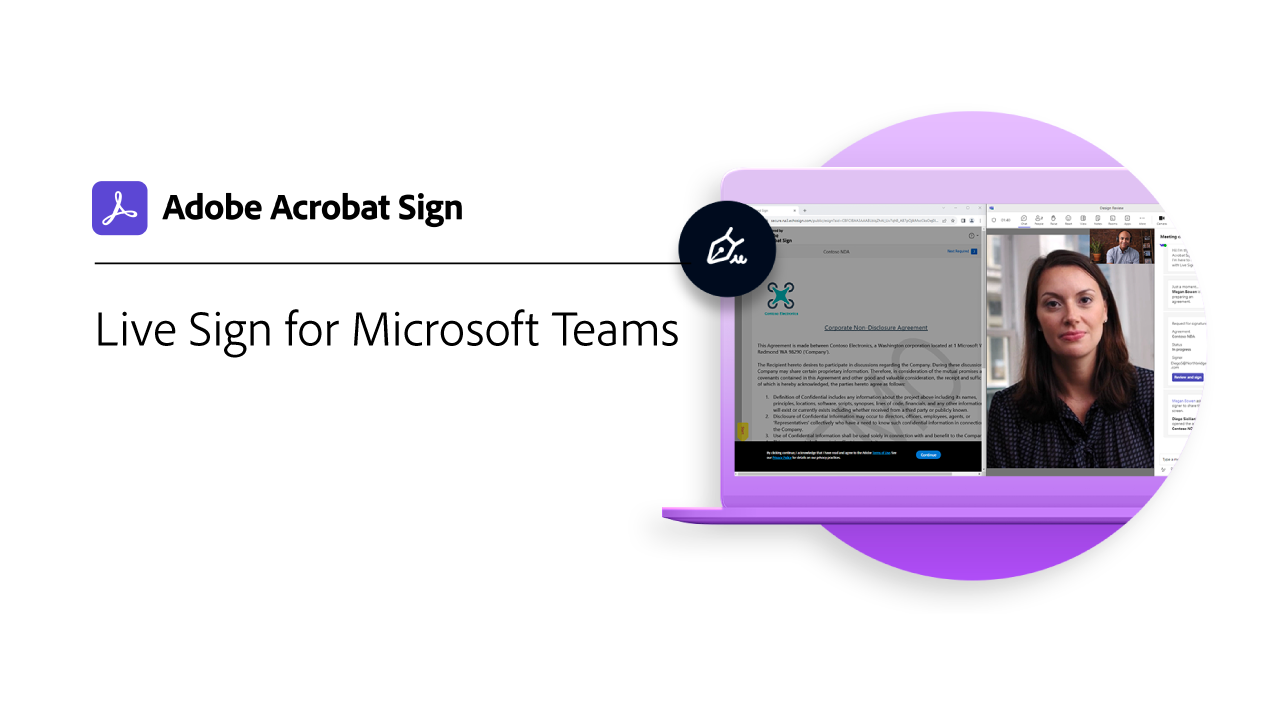
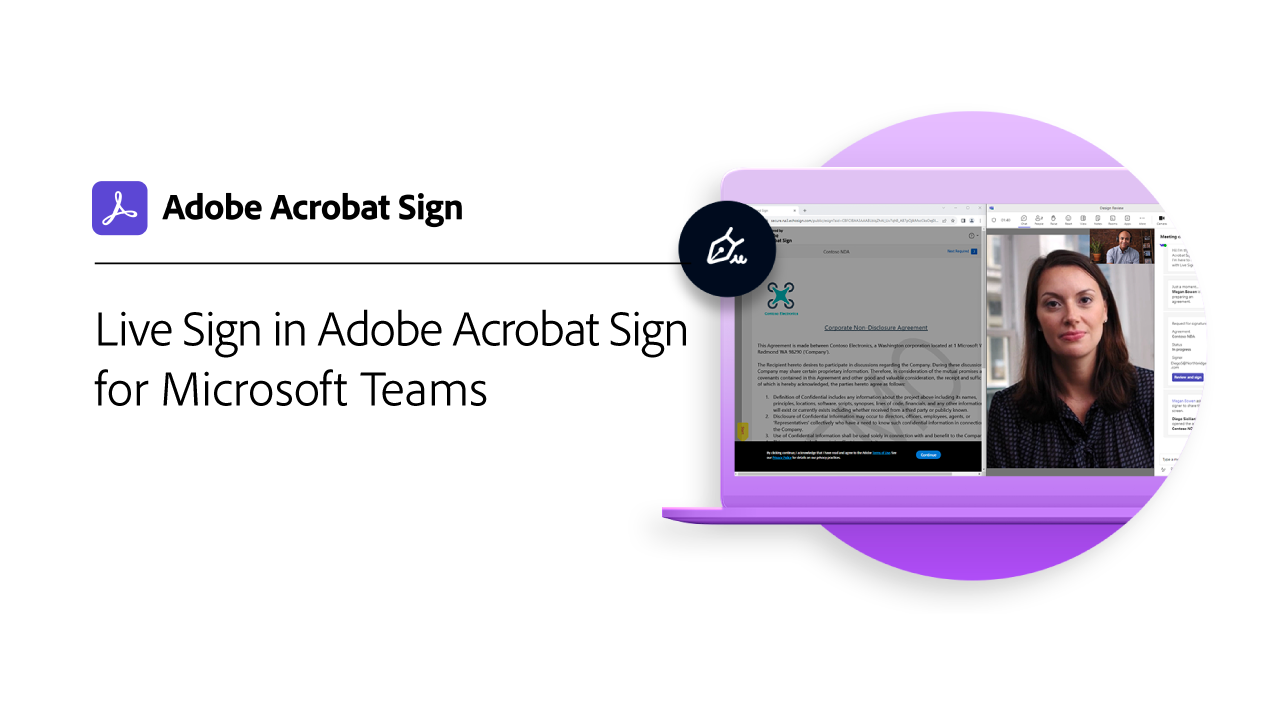
Title updates

Changed region(s): [[0.0625, 0.4278, 0.5312, 0.5806]]

diff --git a/help/sign/integrations/integrations-overview.md b/help/sign/integrations/integrations-overview.md
@@ -20,7 +20,7 @@ You can use Acrobat Sign inside other applications your organization already use
 
 ## What's new
 
-* [Live Sign for [!DNL Microsoft Teams]](live-sign-microsoft-teams.md)
+* [Live Sign in Adobe Acrobat Sign for [!DNL Microsoft Teams]](live-sign-microsoft-teams.md)
   Learn how to create an online signing experience that resembles in-person signing during a [!DNL Microsoft Teams] meeting
 * [Create an advanced workflow with [!DNL Power Automate]](advanced-workflow-power-automate.md)
    Learn how to create an advance workflow using [!DNL Power Automate] connectors
@@ -117,10 +117,10 @@ You can use Acrobat Sign inside other applications your organization already use
 <tr>
   <td>
     <a href="live-sign-microsoft-teams.md">
-      <img alt="Live Sign in [!DNL Microsoft Teams]" src="../assets/live-sign.png" />
+      <img alt="Live Sign in Adobe Acrobat Sign for [!DNL Microsoft Teams]" src="../assets/live-sign.png" />
     </a>
     <div>
-    <a href="live-sign-microsoft-teams.md"><strong>Live Sign in [!DNL Microsoft Teams]</strong></a>
+    <a href="live-sign-microsoft-teams.md"><strong>Live Sign in Adobe Acrobat Sign for [!DNL Microsoft Teams]</strong></a>
     </div>
     <em>Learn how to create an online signing experience that resembles in-person signing during a [!DNL Microsoft Teams] meeting</em>
     <br>

diff --git a/help/sign/TOC.md b/help/sign/TOC.md
@@ -102,7 +102,7 @@ auto-video-transcripts: true
     + [Auto archive files in [!DNL SharePoint] with [!DNL Power Automate]](integrations/auto-archive-sharepoint-power-automate.md)
     + [Document automation with Acrobat Sign for [!DNL Microsoft Power Platform]](integrations/documentautomation.md)
     + [Send for signature in [!DNL Microsoft Teams]](integrations/adobe-sign-teams-mortgage.md)
-    + [Live Sign for [!DNL Microsoft Teams]](integrations/live-sign-microsoft-teams.md) 
+    + [Live Sign in Adobe Acrobat Sign for [!DNL Microsoft Teams]](integrations/live-sign-microsoft-teams.md) 
     + [Create a simple workflow in [!DNL Power Automate]](integrations/simple-workflow-power-automate.md)
     + [Create an advanced workflow in [!DNL Power Automate]](integrations/advanced-workflow-power-automate.md)
     + [[!DNL Microsoft Dynamics 365] for Customer Service](integrations/dynamics-customer-service.md)

diff --git a/help/sign/integrations/live-sign-microsoft-teams.md b/help/sign/integrations/live-sign-microsoft-teams.md
@@ -1,5 +1,5 @@
 ---
-title: Live Sign for [!DNL Microsoft Teams]
+title: Live Sign in Adobe Acrobat Sign for NL Microsoft Teams]
 description: Learn how to create an online signing experience that resembles in-person signing during a [!DNL Microsoft Teams] meeting
 feature: Integrations
 role: User
@@ -8,7 +8,7 @@ level: Intermediate
 jira: KT-14239
 topic-revisit: Integrations
 ---
-# Live Sign for [!DNL Microsoft Teams]
+# Live Sign in Adobe Acrobat Sign for [!DNL Microsoft Teams]
 
 Learn how to create an online signing experience that resembles in-person signing during a Microsoft Teams meeting. Live Sign allows you to host a personal, fast, and secure signing experience from any device.
 
